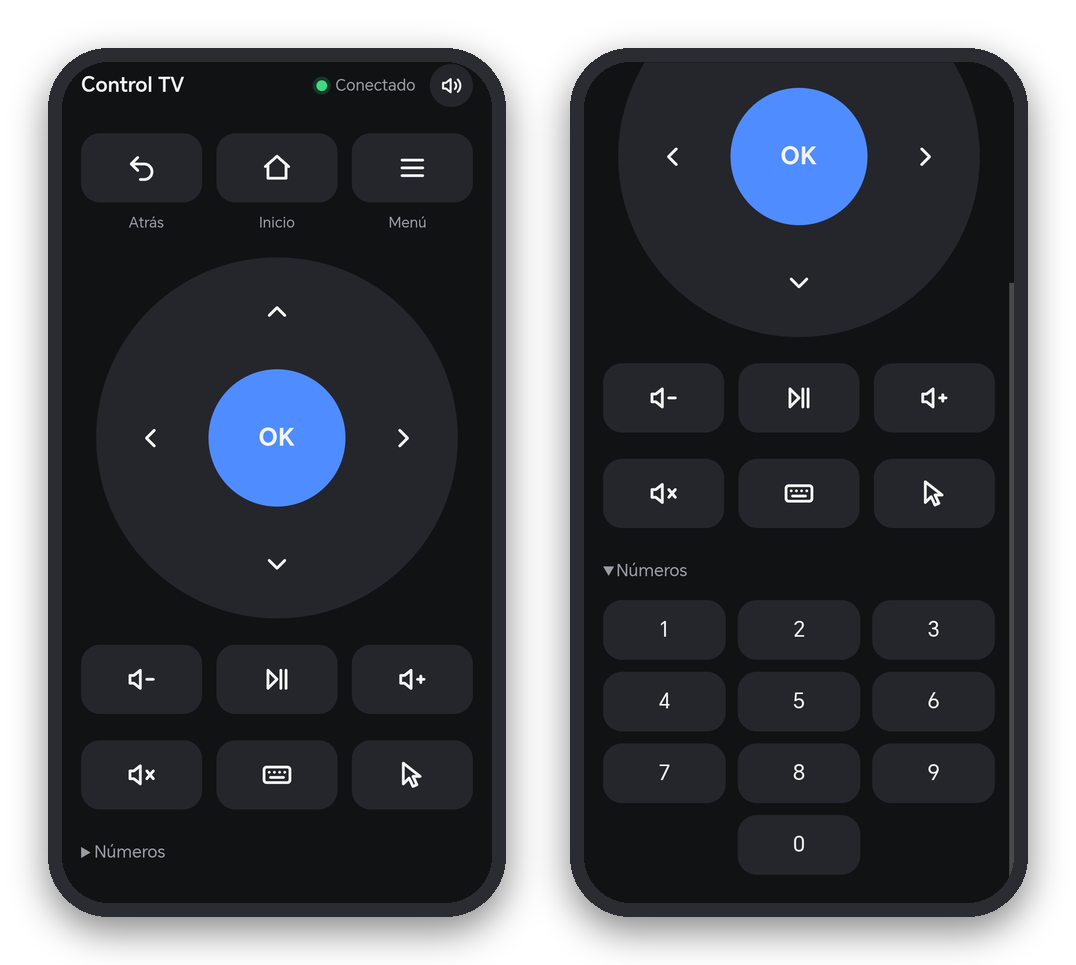
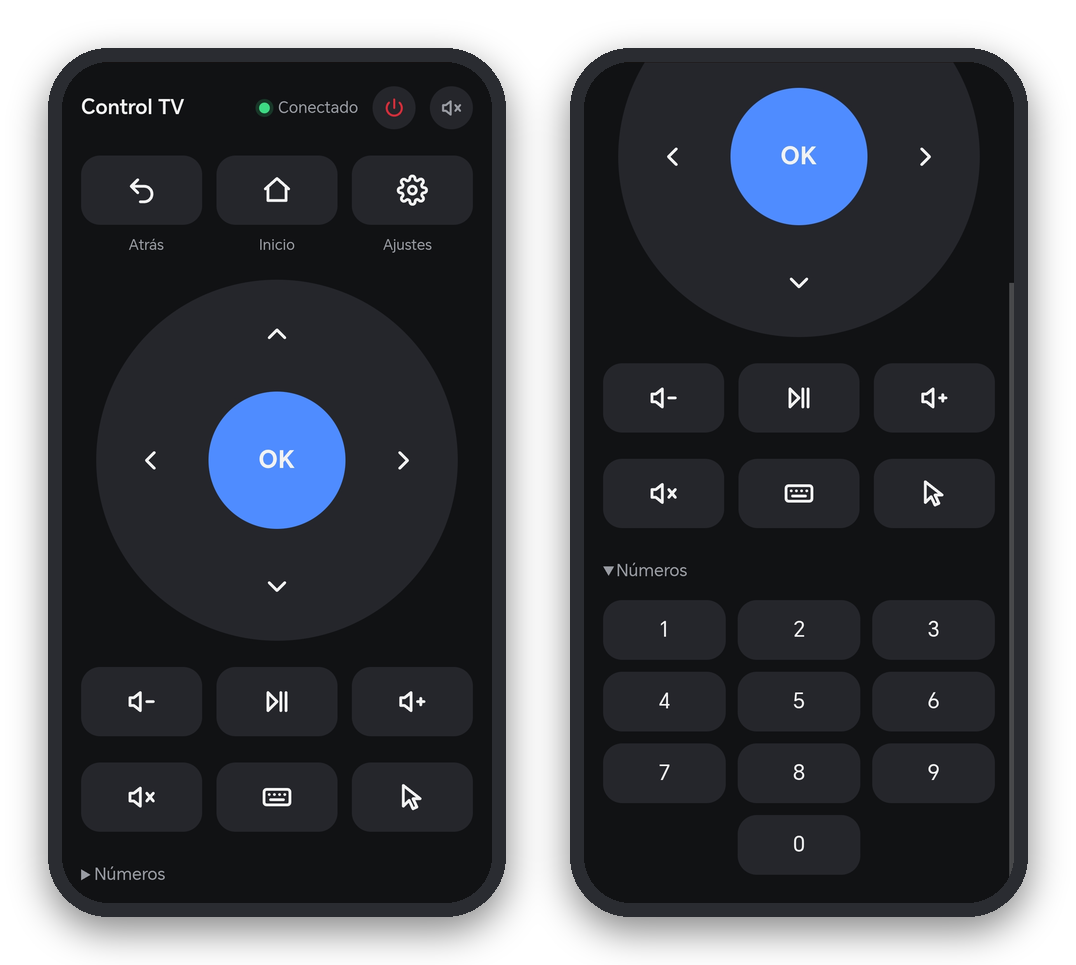
Actualizar captura de pantalla
Closes #2

diff --git a/README.md b/README.md
@@ -3,7 +3,7 @@
 Control remoto web para un TV Box Android, sin publicidad y sin instalar nada en el celular.
 
 <p align="center">
-  <img src="docs/screenshots.png" alt="Control TV en el celular: a la izquierda la vista principal con Atrás, Inicio, Menú, las flechas con OK, volumen, teclado y cursor; a la derecha la sección de números desplegada" width="640">
+  <img src="docs/screenshots.png" alt="Control TV en el celular: a la izquierda la vista principal con el estado de conexión, los botones de encendido y sonido, Atrás, Inicio, Ajustes, las flechas con OK, volumen, teclado y cursor; a la derecha la sección de números desplegada" width="640">
 </p>
 
 La caja (app **Control Web**, ~150 KB) sirve una página en `http://<IP de la caja>:8080`. Desde el
